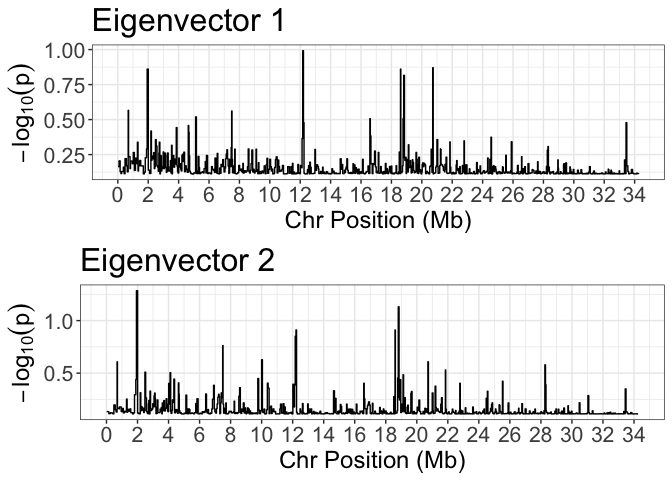
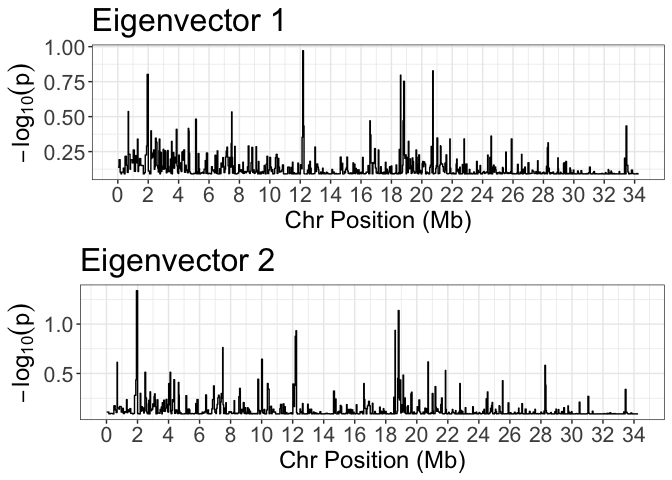
updated README

diff --git a/README.md b/README.md
@@ -278,12 +278,18 @@ eigen_res[[1]]$eigenvals
 eigen_res[[1]]$eigenvecs
 ```
 
-    ##           Eigenvector_1 Eigenvector_2 Eigenvector_3 Eigenvector_4 Eigenvector_5
-    ## Tacarigua    -0.2441412  -0.499960509     0.5434971    0.62815949    0.02147388
-    ## Guanapo      -0.6468302  -0.006768749    -0.3633949    0.03474299    0.66955355
-    ## Aripo        -0.2751444  -0.550490934     0.2351333   -0.74493053   -0.10510056
-    ## Oropuche     -0.6489972   0.279993700    -0.1152724    0.09398880   -0.69158118
-    ## Madamas       0.1584423  -0.607088900    -0.7099152    0.20112980   -0.24880969
+    ##           Eigenvector_1 Eigenvector_2 Eigenvector_3 Eigenvector_4
+    ## Tacarigua    -0.2441412  -0.499960509     0.5434971    0.62815949
+    ## Guanapo      -0.6468302  -0.006768749    -0.3633949    0.03474299
+    ## Aripo        -0.2751444  -0.550490934     0.2351333   -0.74493053
+    ## Oropuche     -0.6489972   0.279993700    -0.1152724    0.09398880
+    ## Madamas       0.1584423  -0.607088900    -0.7099152    0.20112980
+    ##           Eigenvector_5
+    ## Tacarigua    0.02147388
+    ## Guanapo      0.66955355
+    ## Aripo       -0.10510056
+    ## Oropuche    -0.69158118
+    ## Madamas     -0.24880969
 
 ``` r
 # View head of SNP scores
@@ -322,10 +328,10 @@ null_cutoffs
 ```
 
     ##                    95%      99%    99.9%
-    ## Eigenvector 1 2.757524 3.158818 3.433892
-    ## Eigenvector 2 3.876152 4.097952 4.255967
-    ## Eigenvector 3 4.471871 4.576326 4.673508
-    ## Eigenvector 4 4.815768 4.870083 4.907835
+    ## Eigenvector 1 2.763357 3.186046 3.752044
+    ## Eigenvector 2 3.853560 4.145955 4.290095
+    ## Eigenvector 3 4.451113 4.603374 4.729088
+    ## Eigenvector 4 4.818593 4.872730 4.903617
     ## Eigenvector 5 5.000000 5.000000 5.000000
 
 Here, the values are summed through eigenvalues, such that the value for
@@ -351,19 +357,19 @@ head(pvals)
 ```
 
     ##                    Eigenvalue_1 Eigenvalue_2 Eigenvalue_3 Eigenvalue_4
-    ## chr1:12058-81543      0.6853147    0.5004995   0.14785215  0.004995005
-    ## chr1:81669-152842     0.6233766    0.6743257   0.10189810  0.002997003
-    ## chr1:152857-206794    0.7432567    0.6503497   0.06093906  0.000999001
-    ## chr1:208427-250790    0.7692308    0.3346653   0.08791209  0.000999001
-    ## chr1:251000-362599    0.7432567    0.4755245   0.02497502  0.049950050
-    ## chr1:362644-417859    0.6913087    0.6923077   0.10989011  0.020979021
+    ## chr1:12058-81543      0.7262737    0.5244755   0.18181818  0.007992008
+    ## chr1:81669-152842     0.6423576    0.7062937   0.14585415  0.006993007
+    ## chr1:152857-206794    0.7882118    0.6753247   0.09490509  0.001998002
+    ## chr1:208427-250790    0.8111888    0.3456543   0.12187812  0.001998002
+    ## chr1:251000-362599    0.7882118    0.4885115   0.03196803  0.052947053
+    ## chr1:362644-417859    0.7382617    0.7292707   0.14985015  0.016983017
     ##                    Eigenvalue_5
-    ## chr1:12058-81543     0.19380619
-    ## chr1:81669-152842    0.27272727
-    ## chr1:152857-206794   0.09390609
-    ## chr1:208427-250790   0.05294705
-    ## chr1:251000-362599   0.05694306
-    ## chr1:362644-417859   0.01898102
+    ## chr1:12058-81543    0.211788212
+    ## chr1:81669-152842   0.304695305
+    ## chr1:152857-206794  0.083916084
+    ## chr1:208427-250790  0.039960040
+    ## chr1:251000-362599  0.049950050
+    ## chr1:362644-417859  0.008991009
 
 Note: Because these p-values are calculated by comparing to the null
 distribution, they are bounded by the number of permutations. For
@@ -534,3 +540,8 @@ eig2_parallel
 Here we have the same information, but with 2 rows per window for each
 eigenvector up to the focal eigenvector (in this case set as
 `eigenvector = 2`).
+
+Workflow Summary
+----------------
+
+![AFvapeR](README_files/workflow.png)
